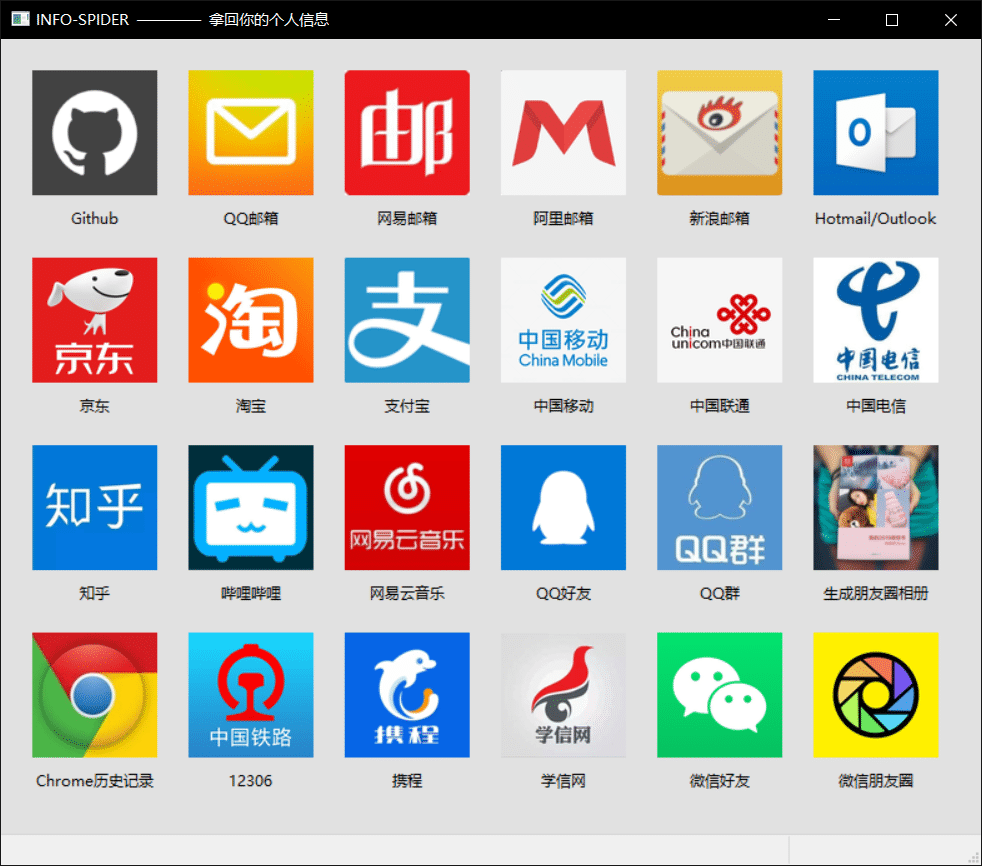
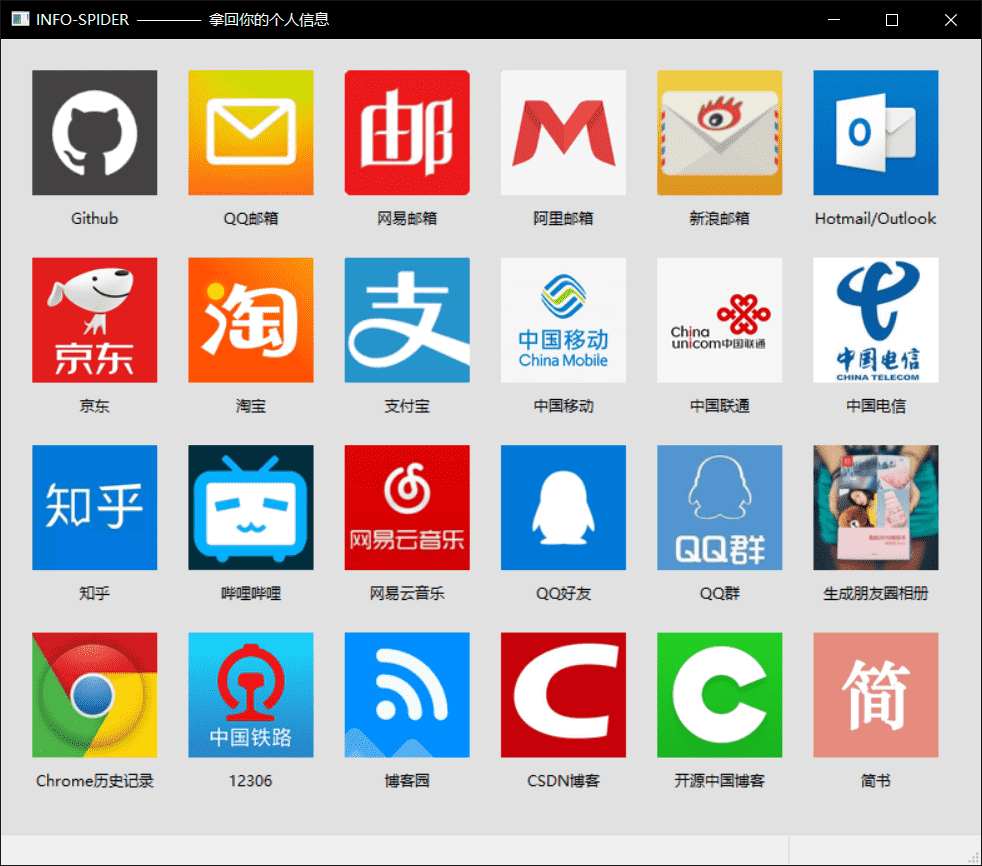
更新“说明文档”

diff --git a/docs/README.md b/docs/README.md
@@ -21,7 +21,7 @@
 
 ## Screenshot
 
-![screenshot.png](https://i.loli.net/2020/07/18/53MWoKZCsdzDX7g.png ':size=70%')
+![screenshot.png](https://i.loli.net/2020/07/19/HUDljdTazJQA6hX.png ':size=70%')
 
 ## QuickStart
 
@@ -3972,8 +3972,31 @@
 </details>
 
 ***
-# License
-GPL-3.0
+# Changelog
+
+- 2020年7月10日
+    1. 更新GUI布局
+    2. 添加GitHub、QQ好友、QQ群数据源
+
+- 2020年7月12日
+    1. 修复QQ邮箱、网易邮箱、阿里邮箱、新浪邮箱、Hotmail、Outlook数据源
+    2. 添加生成朋友圈相册功能
+
+- 2020年7月14日
+    1. 修复京东、淘宝、支付宝、12306数据源
+    2. 添加Chrome浏览记录功能
+
+- 2020年7月17日
+    1. 修复中国移动、中国联通数据源
+    2. 添加知乎、哔哩哔哩、网易云音乐数据源
+
+- 2020年7月19日
+    1. 添加博客园、CSDN、开源中国、简书数据源
+    2. 编写[使用说明文档](https://infospider.vercel.app/)
+    3. 录制使用视频教程
+
+
 
 ***
-# 交流
+# License
+GPL-3.0
